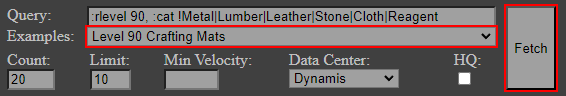
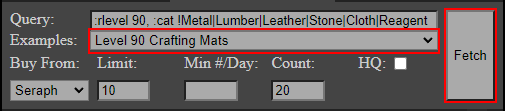
[frontend] Added some descriptions to the query panel

diff --git a/frontend/src/app/(query)/(panel)/panel.tsx b/frontend/src/app/(query)/(panel)/panel.tsx
@@ -103,17 +103,21 @@ function OptionsInputs() {
     const onChangeMinVelocity = (e: ChangeEvent<HTMLInputElement>) => { minVelocity.value = e.target.value; updateUniversalis({ minVelocity: e.target.value }); };
     const onChangeIsHq = (e: ChangeEvent<HTMLInputElement>) => { isHq.value = e.target.checked; updateUniversalis({ isHq: e.target.checked }); }
 
-    const pair = (first: React.ReactNode, second: React.ReactNode) => <div><label>{first}</label>{second}</div>;
+    const pair = (first: React.ReactNode, second: React.ReactNode, pairAsRow?: boolean) => {
+        const style = [styles.inputPair, pairAsRow ? styles.pairAsRow : ''].filter(s => s.length > 0).join(' ');
+        return <div className={style}><label>{first}</label>{second}</div>;
+    }
+    const desc = inputDescriptions;
 
     return (
         <div className={styles.optionsBlock}>
-            {pair("Count:", <input type="number" value={count.value} onChange={onChangeCount} />)}
-            {pair("Limit:", <input type="number" value={limit.value} onChange={onChangeLimit} />)}
-            {pair("Min Velocity:", <input type="number" value={minVelocity.value} onChange={onChangeMinVelocity} />)}
-            {pair("Purchase From:", <select onChange={onChangePurchaseFrom} value={purchaseFrom.value}>{
+            {pair("Buy From:", <select onChange={onChangePurchaseFrom} value={purchaseFrom.value} title={desc.purchaseFrom}>{
                 purchaseFromOptions.map(({ label, value }) => <option key={value} value={value}>{label}</option>)
             }</select>)}
-            {pair("HQ:", <div><input id="is-hq" type="checkbox" onChange={onChangeIsHq} checked={isHq.value} /></div>)}
+            {pair("Limit:", <input type="number" value={limit.value} onChange={onChangeLimit} title={desc.limit} />)}
+            {pair("Min #/Day:", <input type="number" value={minVelocity.value} onChange={onChangeMinVelocity} title={desc.minVelocity} />)}
+            {pair("Count:", <input type="number" value={count.value} onChange={onChangeCount} title={desc.count} />)}
+            {pair("HQ:", <input type="checkbox" onChange={onChangeIsHq} checked={isHq.value} title={desc.isHq} />, true)}
         </div>
     );
 }
@@ -127,4 +131,12 @@ function FetchButton() {
             {isFetching.value ? 'Cancel' : 'Fetch'}
         </button>
     );
+}
+
+const inputDescriptions = {
+    purchaseFrom: 'The world / DC / region from which item listing data will be fetched',
+    limit: 'The maxmimum number of items shown in the market results table',
+    minVelocity: 'The minimum velocity (#/Day) required to include an item on the market results table',
+    count: 'The number of each item to craft/buy/sell',
+    isHq: 'Attempts to isolate buying/selling HQ versions only',
 }

diff --git a/frontend/src/app/(query)/(table)/table.tsx b/frontend/src/app/(query)/(table)/table.tsx
@@ -72,17 +72,19 @@ function Table() {
 
 function TableHeader() {
     const classNames = (classes: string[]) => [styles.rowItem, ...classes].join(' ');
+    const desc = columnHeaderDescriptions;
+
     return (
         <tr className={`${styles.tableRow} ${styles.heading}`}>
-            <th className={classNames(columnHeaders.checked)}>☑</th>
-            <th className={classNames(columnHeaders.name)}>Name</th>
-            <th className={classNames(columnHeaders.profit)}>Profit</th>
-            <th className={classNames(columnHeaders.sell)}>Sell</th>
-            <th className={classNames(columnHeaders.buy)}>Buy</th>
-            <th className={classNames(columnHeaders.craft)}>Craft</th>
-            <th className={classNames(columnHeaders.numListings)}>Lists</th>
-            <th className={classNames(columnHeaders.count)}>#/List</th>
-            <th className={classNames(columnHeaders.perBiWeek)}>#/Day</th>
+            <th className={classNames(columnHeaders.checked)} title={desc.checked}>☑</th>
+            <th className={classNames(columnHeaders.name)} title={desc.name}>Name</th>
+            <th className={classNames(columnHeaders.profit)} title={desc.profit}>Profit</th>
+            <th className={classNames(columnHeaders.sell)} title={desc.sell}>Sell</th>
+            <th className={classNames(columnHeaders.buy)} title={desc.buy}>Buy</th>
+            <th className={classNames(columnHeaders.craft)} title={desc.craft}>Craft</th>
+            <th className={classNames(columnHeaders.numListings)} title={desc.numListings}>Lists</th>
+            <th className={classNames(columnHeaders.count)} title={desc.count}>#/List</th>
+            <th className={classNames(columnHeaders.perBiWeek)} title={desc.perBiWeek}>#/Day</th>
         </tr>
     );
 }
@@ -152,3 +154,16 @@ const columnHeaders = {
     count: [],
     perBiWeek: [styles.velocity, styles.leftBorder, styles.rightBorder],
 };
+
+const columnHeaderDescriptions = {
+    checked: "Checked ingredients will be included in the purchase table",
+    name: "The item name",
+    profit: "Gil profit made if you buy/craft [count] number of the item, then sell them",
+    sell: "Gross gil revenue made if you sell [count] number of the item",
+    buy: "Rough gil cost of purchasing [count] number of the item",
+    craft: "Rough gil cost of crafting [count] number of the item",
+    numListings: "Number of live market board listings for this item",
+    count: "Avg stack size of each listing for this item",
+    perBiWeek: "Avg count of item sold on the market each day, for the past two weeks",
+};
+

diff --git a/frontend/src/app/(query)/(panel)/panel.module.less b/frontend/src/app/(query)/(panel)/panel.module.less
@@ -1,6 +1,6 @@
 @import '../../colors.less';
 
-@small-width: ~'(max-width: 56em)';
+@small-width: ~'(max-width: 26em)';
 
 .queries {
     flex: 0;
@@ -21,14 +21,6 @@
     select,
     button {
         background-color: @color-bg-input
-    }
-
-    > :first-child {
-        margin-left: 0;
-    }
-
-    > :last-child {
-        margin-right: 0px;
     }
 
     @media @small-width {
@@ -52,10 +44,9 @@
 
 .labelRow {
     display: flex;
-    max-width: 100%;
 
     >label:first-child {
-        flex: 0 5em;
+        flex: 0;
         min-width: 5em;
     }
 
@@ -75,35 +66,45 @@
 .optionsBlock {
     display: grid;
     gap: 0.5em;
-    grid-template-columns: repeat(10, 1fr);
+    grid-template-columns: repeat(5, 1fr);
 
     margin-top: 0.25em;
 
     @media @small-width {
-        grid-template-columns: repeat(auto-fill, minmax(min(100%, 6em), 1fr));
+        grid-template-columns: repeat(auto-fill, minmax(min(100%, 4.4em), 1fr));
         grid-auto-columns: auto auto;
     }
+}
 
-    >div {
-        display: grid;
-        grid-column: span 2;
-        grid-template-columns: subgrid;
-        gap: 0.5em;
+.inputPair {
+    display: grid;
+    grid-row: span 2;
+    grid-template-rows: subgrid;
+    gap: 0.5em;
 
-        max-width: 100%;
+    max-width: 100%;
 
-        * {
-            white-space: nowrap;
-            margin-inline: 0;
-        }
+    &.pairAsRow {
+        display: flex;
+        flex-direction: row;
+        align-items: flex-start;
 
         >:first-child {
             text-align: right;
         }
+    }
 
-        label {
-            color: @color-fg-label
-        }
+    * {
+        white-space: nowrap;
+        margin-inline: 0;
+    }
+
+    label {
+        color: @color-fg-label
+    }
+
+    input:not([type='checkbox']) {
+        max-width: 4em;
     }
 }
 
